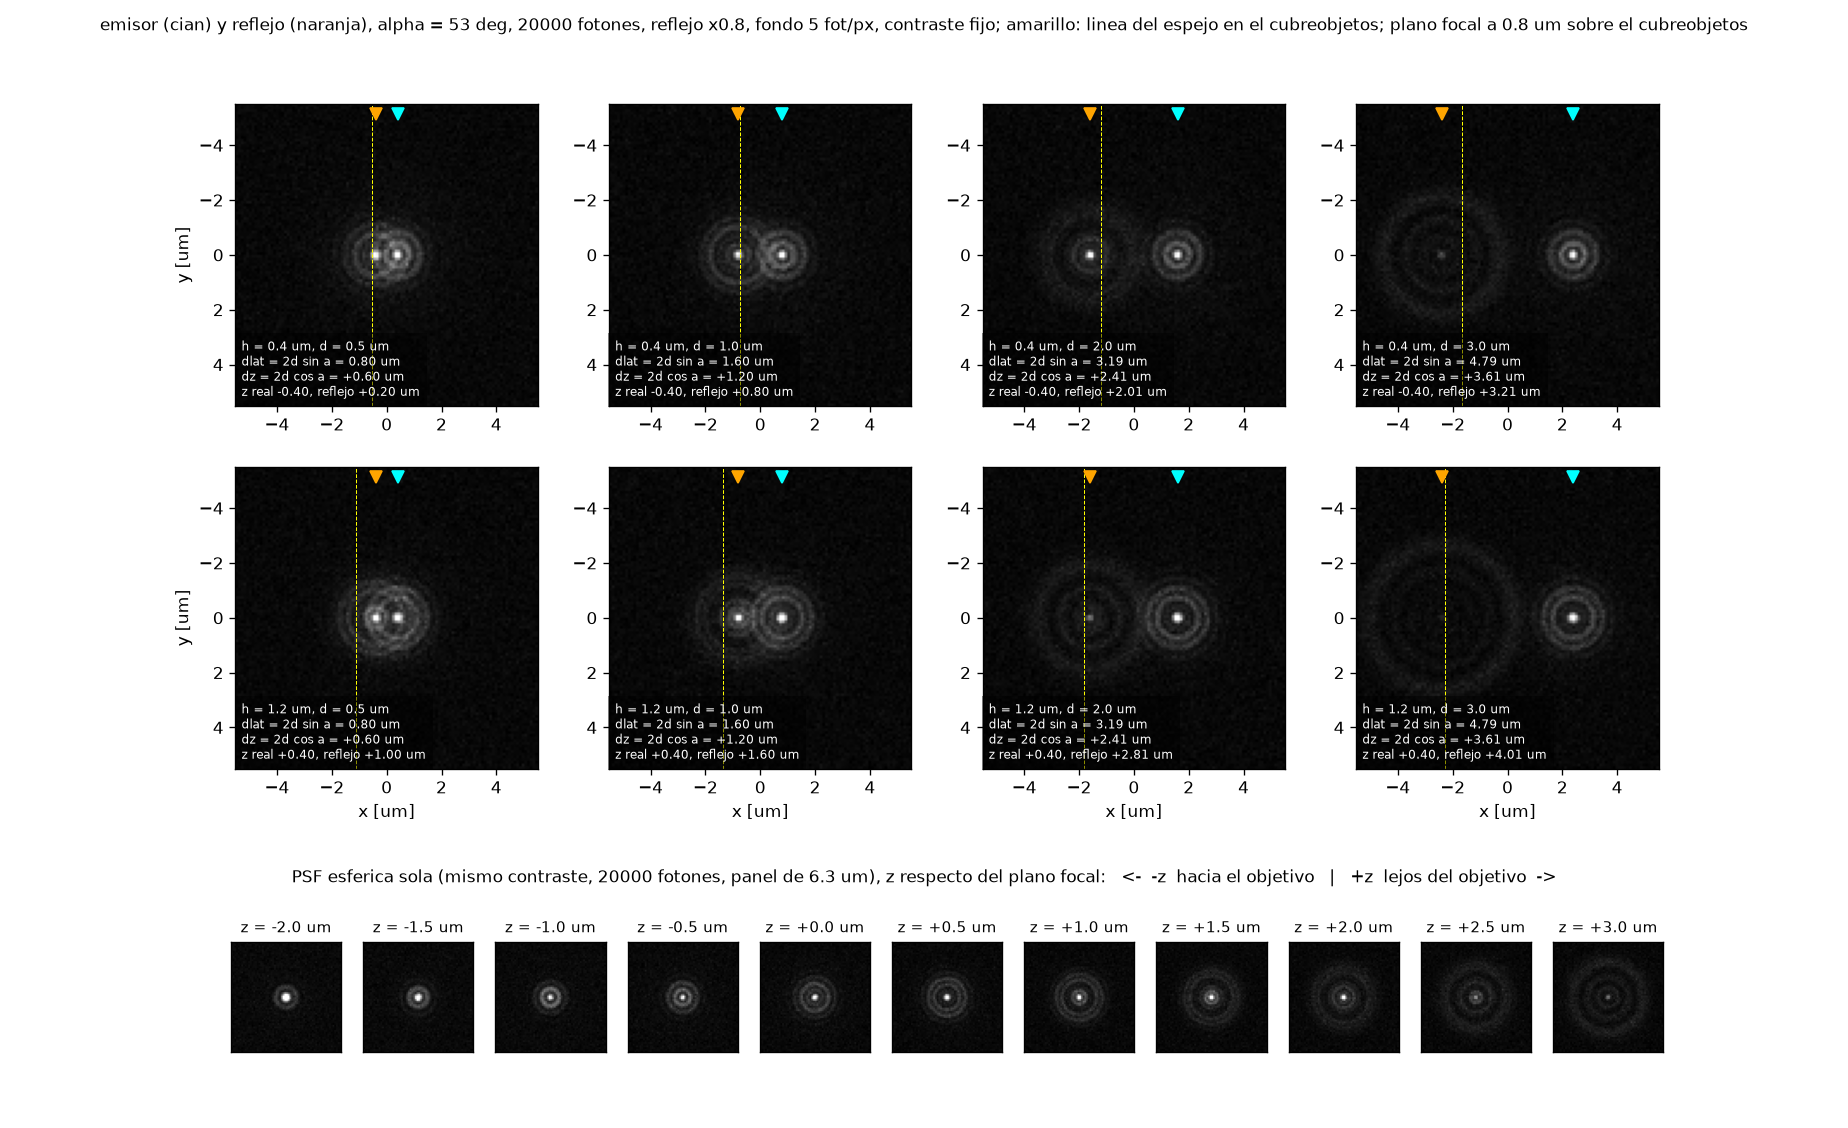
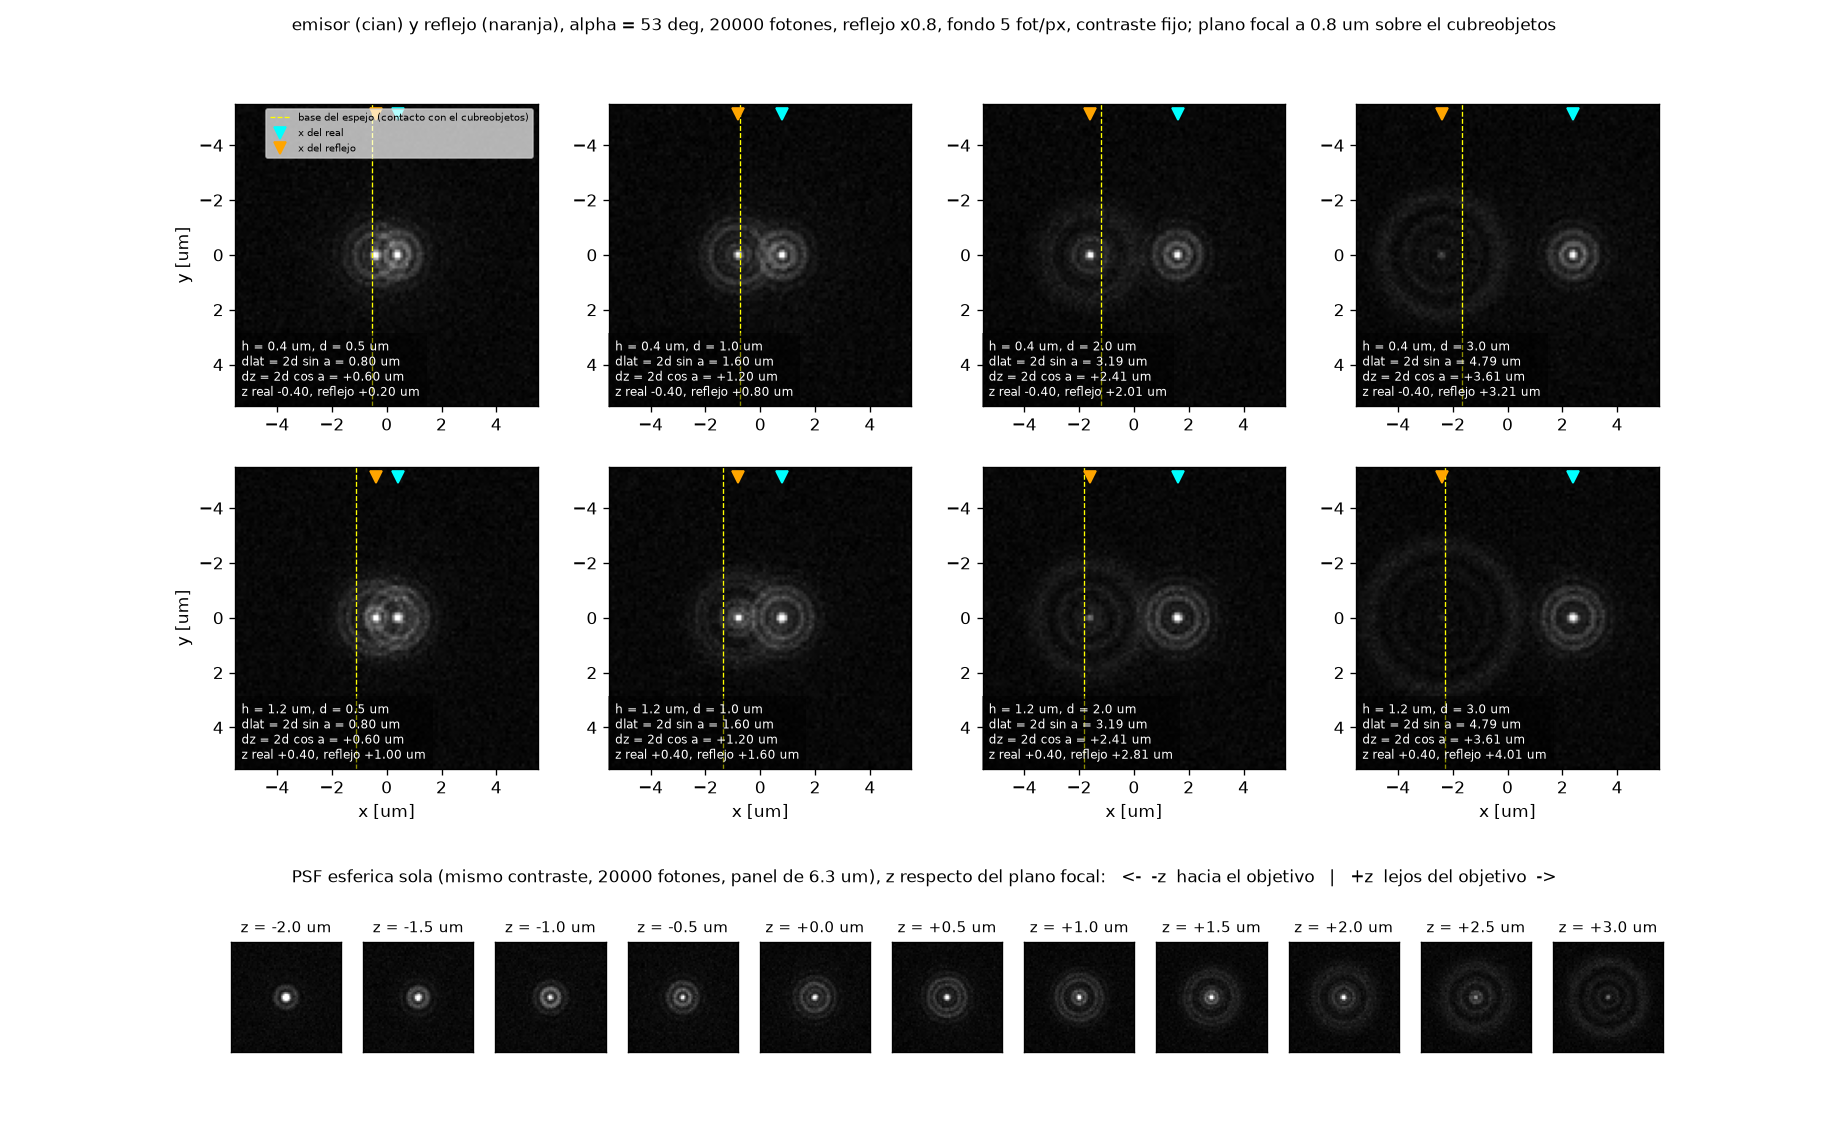
fig: base del espejo en linea discontinua y en la leyenda de las figuras con marcadores
"base del espejo (contacto con el cubreobjetos)" en check_espejo.py y en
muestra_espejo.py (leyenda en una franja bajo la imagen, sin tapar pixeles).
Corrige la altura de la linea punteada de la pared superior, que no
consideraba z_cubreobjetos_nm.

Changed region(s): [[0.0617, 0.0, 0.9562, 0.031], [0.1234, 0.0931, 0.3084, 0.1551]]

diff --git a/figuras/muestra_espejo.py b/figuras/muestra_espejo.py
@@ -6,8 +6,9 @@ Config (el video 0 de generar_dataset con esa semilla).
 Escribe en --salida (por defecto muestra_espejo/ en el directorio actual):
     frame_000_camara.png        frame 0 tal como lo ve la camara (con ruido), sin marcas
     frame_000_marcadores.png    el mismo frame con reales (circulos cian) y reflejos
-                                (cuadrados naranja) unidos por una linea fina, y la
-                                linea del espejo en el cubreobjetos
+                                (cuadrados naranja) unidos por una linea fina, la
+                                base del espejo (contacto con el cubreobjetos) en linea
+                                discontinua, y una leyenda en una franja debajo de la imagen
     video.gif / video_marcadores.gif   toda la secuencia, sin y con marcas
     video.tif                   el video en ADU (uint16, ImageJ TYX)
     ground_truth.csv            GT con las columnas del reflejo
@@ -30,7 +31,7 @@ from dataclasses import asdict
 from pathlib import Path
 import numpy as np
 import pandas as pd
-from PIL import Image, ImageDraw
+from PIL import Image, ImageDraw, ImageFont
 
 from simulador_psf import Config, BancoPSF, Espejo, generar_video, guardar_video, guardar_gt
 from simulador_psf.espejo import SIGNO_Z, SIGNO_INCLINACION
@@ -76,18 +77,52 @@ seg = espejo.p0 + np.outer([-L, L], espejo.t)
 linea = [img_px(*(seg[k, :2] / cfg.pixel_nm)) for k in range(2)]
 
 
+def discontinua(dr, a, b, fill, largo=8, hueco=6, width=1):
+    """Linea discontinua de a a b (PIL no las tiene)."""
+    a, b = np.asarray(a, float), np.asarray(b, float)
+    L = np.hypot(*(b - a))
+    u = (b - a) / L
+    for s in np.arange(0.0, L, largo + hueco):
+        dr.line([tuple(a + s * u), tuple(a + min(s + largo, L) * u)], fill=fill, width=width)
+
+
+AMARILLO, CIAN, NARANJA, ROJO, GRIS = (255, 230, 0), (0, 255, 255), (255, 150, 0), (255, 0, 0), (200, 200, 200)
+FUENTE = ImageFont.load_default(size=13)
+FRANJA = 44                                                     # alto de la leyenda bajo la imagen [px]
+
+
+def leyenda(im):
+    """Agrega debajo de im una franja negra con la leyenda (no tapa la imagen)."""
+    out = Image.new("RGB", (im.width, im.height + FRANJA), (0, 0, 0))
+    out.paste(im, (0, 0))
+    dr = ImageDraw.Draw(out)
+    y1, y2 = im.height + 6, im.height + 25
+    r = 5
+    dr.ellipse([8 - r, y1 + 7 - r, 8 + r, y1 + 7 + r], outline=CIAN, width=2)
+    dr.text((18, y1), "real", fill=(255, 255, 255), font=FUENTE)
+    dr.rectangle([68 - r, y1 + 7 - r, 68 + r, y1 + 7 + r], outline=NARANJA, width=2)
+    dr.text((78, y1), "reflejo", fill=(255, 255, 255), font=FUENTE)
+    dr.rectangle([148 - r, y1 + 7 - r, 148 + r, y1 + 7 + r], outline=ROJO, width=2)
+    dr.text((158, y1), "reflejo no renderizado", fill=(255, 255, 255), font=FUENTE)
+    dr.line([(4, y2 + 7), (24, y2 + 7)], fill=GRIS, width=1)
+    dr.text((30, y2), "vinculo", fill=(255, 255, 255), font=FUENTE)
+    discontinua(dr, (98, y2 + 7), (128, y2 + 7), AMARILLO, largo=6, hueco=4)
+    dr.text((134, y2), "base del espejo (contacto con el cubreobjetos)", fill=(255, 255, 255), font=FUENTE)
+    return out
+
+
 def con_marcas(frame, t):
     im = a_rgb(frame)
     dr = ImageDraw.Draw(im)
-    dr.line(linea, fill=(255, 230, 0), width=1)
+    discontinua(dr, linea[0], linea[1], AMARILLO)
     r = 0.45 * Z
     for f in gt[gt.frame == t].itertuples():
         a, b = img_px(f.x_px, f.y_px), img_px(f.x_reflejo_px, f.y_reflejo_px)
-        dr.line([a, b], fill=(200, 200, 200), width=1)
-        dr.ellipse([a[0] - r, a[1] - r, a[0] + r, a[1] + r], outline=(0, 255, 255), width=2)
-        color = (255, 150, 0) if f.reflejo_en_banco else (255, 0, 0)   # rojo: reflejo no renderizado
+        dr.line([a, b], fill=GRIS, width=1)
+        dr.ellipse([a[0] - r, a[1] - r, a[0] + r, a[1] + r], outline=CIAN, width=2)
+        color = NARANJA if f.reflejo_en_banco else ROJO               # rojo: reflejo no renderizado
         dr.rectangle([b[0] - r, b[1] - r, b[0] + r, b[1] + r], outline=color, width=2)
-    return im
+    return leyenda(im)
 
 
 a_rgb(video[0]).save(sal / "frame_000_camara.png")
@@ -125,7 +160,8 @@ lineas = [
     f"contraste fijo (todos los PNG y GIF): negro = {lo:.0f} ADU, blanco = {hi:.0f} ADU "
     f"(percentiles {args.percentiles[0]}, {args.percentiles[1]} del video); zoom x{Z}",
     "marcas: circulo cian = real, cuadrado naranja = reflejo (rojo si no se renderizo: fuera del banco),",
-    "        linea gris = vinculo real-reflejo, linea amarilla = espejo en el cubreobjetos",
+    "        linea gris = vinculo real-reflejo, linea amarilla discontinua = base del espejo",
+    "        (contacto con el cubreobjetos); leyenda en una franja bajo la imagen",
     "",
     "Config completa:",
     *[f"  {k} = {v}" for k, v in asdict(cfg).items()],

diff --git a/checks/check_espejo.py b/checks/check_espejo.py
@@ -84,12 +84,13 @@ for r in g0.itertuples():
 A.scatter(g0.x_px, g0.y_px, s=60, facecolors="none", edgecolors="cyan", lw=1.2, label="real")
 A.scatter(g0.x_reflejo_px, g0.y_reflejo_px, s=60, marker="s", facecolors="none", edgecolors="orange",
           lw=1.2, label="reflejo")
-linea_espejo(A, e, cfg, 0.0, color="yellow", lw=1.0, label="espejo en el cubreobjetos")
-linea_espejo(A, e, cfg, cfg.z_rango_nm[1] - cfg.z_rango_nm[0], color="yellow", lw=0.8, ls=":",
-             label="espejo a la altura de la pared superior")
+BASE_ESPEJO = "base del espejo (contacto con el cubreobjetos)"
+linea_espejo(A, e, cfg, 0.0, color="yellow", lw=1.0, ls="--", label=BASE_ESPEJO)
+linea_espejo(A, e, cfg, SIGNO_Z * (cfg.z_rango_nm[1] - e.z_cubre), color="yellow", lw=0.8, ls=":",
+             label="espejo a la altura de la pared superior de los reales")
 A.set_xlim(-0.5, cfg.W - 0.5); A.set_ylim(cfg.H - 0.5, -0.5)
 A.set_title(f"frame 0 (alpha {cfg.angulo_espejo_deg:.0f} deg, ratio {cfg.ratio_reflejo}), contraste fijo", fontsize=10)
-A.legend(fontsize=7, loc="lower right")
+A.legend(fontsize=7, loc="upper center", bbox_to_anchor=(0.5, -0.07), ncol=2)   # fuera de la imagen
 plt.colorbar(im, ax=A, fraction=0.046, label="ADU")
 
 # el par con mas frames con real y reflejo dentro del FOV
@@ -102,7 +103,7 @@ B.plot(g.x_reflejo_px, g.y_reflejo_px, "-", color="tab:orange", lw=1, label="ref
 B.plot(g.x_px.iloc[0], g.y_px.iloc[0], "o", color="tab:blue"); B.plot(g.x_reflejo_px.iloc[0], g.y_reflejo_px.iloc[0], "s", color="tab:orange")
 for k in range(0, len(g), 5):
     B.plot([g.x_px.iloc[k], g.x_reflejo_px.iloc[k]], [g.y_px.iloc[k], g.y_reflejo_px.iloc[k]], color="0.7", lw=0.5)
-linea_espejo(B, e, cfg, 0.0, color="k", lw=1.0)
+linea_espejo(B, e, cfg, 0.0, color="k", lw=1.0, ls="--", label=BASE_ESPEJO)
 B.set_aspect("equal"); B.invert_yaxis(); B.set_xlabel("x [px]"); B.set_ylabel("y [px]")
 xs = np.concatenate([g.x_px, g.x_reflejo_px]); ys = np.concatenate([g.y_px, g.y_reflejo_px])
 B.set_xlim(xs.min() - 3, xs.max() + 3); B.set_ylim(ys.max() + 3, ys.min() - 3)
@@ -202,9 +203,13 @@ for i, fila in enumerate(paneles):
         A.imshow(adu, cmap="gray", vmin=gmin, vmax=gmax, extent=ext(S))
         cpx = (S - 1) / 2
         um = lambda v: (v - cpx) * px / 1000
-        A.axvline(um(xlin), color="yellow", lw=0.6, ls="--")         # linea del espejo en el cubreobjetos
-        A.plot(um(pr_[0]), -medio_um * 0.93, "v", color="cyan", ms=7)          # marcas fuera de la mancha
-        A.plot(um(prf[0]), -medio_um * 0.93, "v", color="orange", ms=7)
+        primero = (i, j) == (0, 0)
+        A.axvline(um(xlin), color="yellow", lw=0.8, ls="--", label=BASE_ESPEJO if primero else None)
+        A.plot(um(pr_[0]), -medio_um * 0.93, "v", color="cyan", ms=7,           # marcas fuera de la mancha
+               label="x del real" if primero else None)
+        A.plot(um(prf[0]), -medio_um * 0.93, "v", color="orange", ms=7, label="x del reflejo" if primero else None)
+        if primero:
+            A.legend(loc="upper right", fontsize=6, framealpha=0.7)
         A.text(0.02, 0.02, txt, transform=A.transAxes, va="bottom", fontsize=7, color="w",
                bbox=dict(facecolor="k", alpha=0.45, lw=0))
         A.set_xlim(-medio_um, medio_um); A.set_ylim(medio_um, -medio_um)
@@ -225,8 +230,7 @@ if args.real:
         A.set_xlim(-medio_um, medio_um); A.set_ylim(medio_um, -medio_um)
         A.set_title(f"real: {os.path.basename(args.real)}\n{args.pixel_nm:.1f} nm/px, contraste propio", fontsize=8)
 sub_top.suptitle(f"emisor (cian) y reflejo (naranja), alpha = {ALPHA:.0f} deg, {N_FOT:.0f} fotones, "
-                 f"reflejo x{RATIO}, fondo {FONDO:.0f} fot/px, contraste fijo; amarillo: linea del espejo en "
-                 f"el cubreobjetos; plano focal a {(0 - z_cubre) * SIGNO_Z / 1000:.1f} um sobre el cubreobjetos",
+                 f"reflejo x{RATIO}, fondo {FONDO:.0f} fot/px, contraste fijo; plano focal a {(0 - z_cubre) * SIGNO_Z / 1000:.1f} um sobre el cubreobjetos",
                  fontsize=10)
 
 axg = sub_bot.subplots(1, len(GALERIA_UM))
